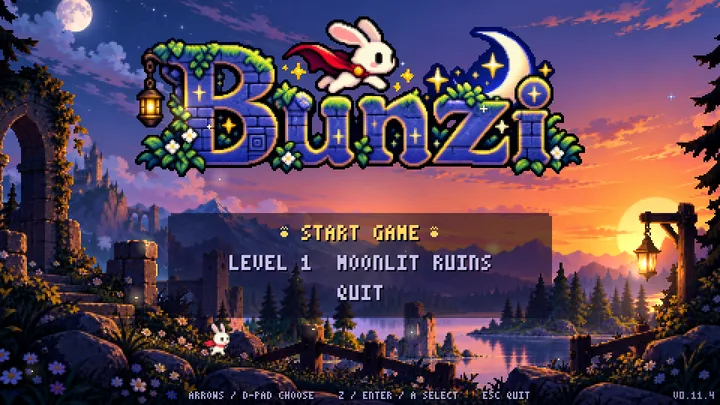
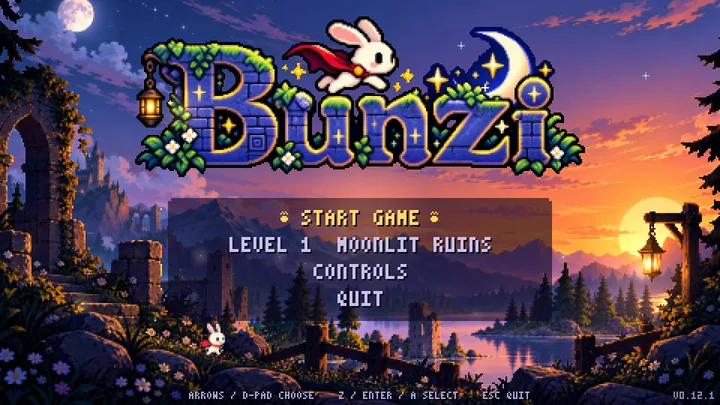
Subbaan website v1.2.4
Removed the bottom Support section and its nav link; the side box now
says "buy me a coffee".

diff --git a/index.html b/index.html
@@ -5,7 +5,7 @@
   <meta name="viewport" content="width=device-width, initial-scale=1">
   <meta name="theme-color" content="#1d2021">
   <title>Subbaan · Software, games & little experiments</title>
-  <meta name="description" content="Free Linux software by Subbaan: terminal apps, little tools and games, with the source on GitHub. Optional gifts on Ko-fi.">
+  <meta name="description" content="Free Linux software by Subbaan: terminal apps, little tools and games, with the source on GitHub. Buy me a coffee on Ko-fi.">
   <link rel="canonical" href="https://subbaan.github.io/">
   <meta property="og:type" content="website">
   <meta property="og:site_name" content="Subbaan">
@@ -19,7 +19,7 @@
   <link rel="icon" type="image/png" href="assets/brand/favicon.png">
   <link rel="apple-touch-icon" href="assets/brand/apple-touch-icon.png">
   <style>
-    /* Subbaan website v1.2.3 · Gruvbox Dark */
+    /* Subbaan website v1.2.4 · Gruvbox Dark */
     :root {
       color-scheme: dark;
       --bg: #1d2021; --panel: #282828; --panel2: #32302f; --raise: #3c3836;
@@ -147,7 +147,6 @@
     .side-box h3 { margin: 0 0 9px; font-size: 16px; }
     .side-box p { font-size: 13px; color: var(--muted); margin: 0 0 13px; }
     .side-box .button { width: 100%; }
-    .side-box .note { font-size: 11.5px; color: var(--dim); margin: 11px 0 0; }
     .release-list { list-style: none; margin: 0; padding: 0; }
     .release-list li { border-top: 1px solid var(--line-soft); }
     .release-list li:first-child { border-top: 0; }
@@ -158,10 +157,6 @@
     .side-box .tags { margin-top: 4px; }
 
     /* Support strip */
-    .support { margin-top: 28px; display: flex; gap: 14px 24px; align-items: center; justify-content: space-between; padding: 16px 20px; }
-    .support h2 { margin: 0 0 4px; font-size: 15px; letter-spacing: -.2px; }
-    .support p { color: var(--muted); font-size: 13px; margin: 0; max-width: 820px; }
-    .support .button { flex: none; }
 
     /* Footer */
     .site-footer { border-top: 1px solid var(--line-soft); color: var(--dim); padding: 23px 0 30px; font-size: 12px; margin-top: 10px; }
@@ -217,7 +212,6 @@
       .feature { grid-template-columns: 1fr; }
       .feature-art { order: -1; margin: 0; border-radius: 0; border: 0; border-bottom: 1px solid var(--line); }
       .side-column { grid-template-columns: 1fr 1fr; }
-      .support { flex-direction: column; align-items: flex-start; }
       .hero { grid-template-columns: 1fr; }
     }
     @media (max-width: 760px) {
@@ -260,7 +254,6 @@
       <a href="#projects">Projects</a>
       <a href="#workshop">Workshop</a>
       <a href="#about">About</a>
-      <a href="#support">Support</a>
     </nav>
     <div class="header-links">
       <a class="header-btn" href="https://github.com/subbaan" target="_blank" rel="noopener noreferrer">
@@ -334,9 +327,8 @@
     <aside class="side-column">
       <section class="side-box panel">
         <h3>♥ Enjoying something?</h3>
-        <p>Everything here is free. If something I've made has been useful or fun, you can send a small gift on Ko-fi. It's entirely optional.</p>
-        <a class="button primary" href="https://ko-fi.com/subbaan" target="_blank" rel="noopener noreferrer">☕ Send a gift on Ko-fi ↗</a>
-        <p class="note"><a href="#support" style="color:var(--muted);text-decoration:underline">How gifts work</a></p>
+        <p>Everything here is free. If something I've made has been useful or fun, you can buy me a coffee.</p>
+        <a class="button primary" href="https://ko-fi.com/subbaan" target="_blank" rel="noopener noreferrer">☕ Buy me a coffee on Ko-fi ↗</a>
       </section>
       <section class="side-box panel">
         <h3>↗ Latest releases</h3>
@@ -350,18 +342,11 @@
     </aside>
   </div>
 
-  <section class="support panel" id="support" aria-labelledby="support-heading">
-    <div>
-      <h2 id="support-heading">♥ A gift, not a payment</h2>
-      <p>Everything here is free, and most of it is MIT-licensed open source. If something has been useful or fun, you're welcome to send a gift on Ko-fi. It doesn't buy or unlock anything, and not sending one is completely fine. Bug reports and ideas on GitHub are just as welcome.</p>
-    </div>
-    <a class="button ghost" href="https://ko-fi.com/subbaan" target="_blank" rel="noopener noreferrer">☕ Ko-fi ↗</a>
-  </section>
 </main>
 
 <footer class="site-footer">
   <div class="wrap footer-inner">
-    <span>© <span id="year">2026</span> Subbaan · Website v1.2.3<span id="built"></span><span id="visits"></span></span>
+    <span>© <span id="year">2026</span> Subbaan · Website v1.2.4<span id="built"></span><span id="visits"></span></span>
     <span><a href="#top">Top ↑</a><a href="https://github.com/subbaan" target="_blank" rel="noopener noreferrer">GitHub</a><a href="https://ko-fi.com/subbaan" target="_blank" rel="noopener noreferrer">Ko-fi</a></span>
   </div>
 </footer>
@@ -391,7 +376,7 @@
 
 <script src="assets/releases.js"></script>
 <script>
-// Subbaan website v1.2.3
+// Subbaan website v1.2.4
 //
 // PROJECTS is the hand-written part: words, screenshots, build steps.
 // Versions, dates, licences and download links come from assets/releases.js,

diff --git a/assets/releases.js b/assets/releases.js
@@ -1,4 +1,4 @@
-// Generated by build.sh 1.1.0 on 2026-10-17. Do not edit by hand; run ./build.sh --releases
+// Generated by build.sh 1.2.0 on 2026-10-18. Do not edit by hand; run ./build.sh --releases
 window.RELEASES = {
   "1cheri": {
     "download": {
@@ -32,18 +32,18 @@ window.RELEASES = {
   },
   "bunzi": {
     "download": {
-      "name": "bunzi-0.11.4-linux-x86_64.tar.gz",
-      "size": 15554582,
-      "url": "https://github.com/subbaan/bunzi/releases/download/v0.11.4/bunzi-0.11.4-linux-x86_64.tar.gz"
+      "name": "bunzi-0.12.1-linux-x86_64.tar.gz",
+      "size": 15607024,
+      "url": "https://github.com/subbaan/bunzi/releases/download/v0.12.1/bunzi-0.12.1-linux-x86_64.tar.gz"
     },
     "language": "C",
     "license": "MIT",
-    "releaseUrl": "https://github.com/subbaan/bunzi/releases/tag/v0.11.4",
-    "released": "2026-10-17",
+    "releaseUrl": "https://github.com/subbaan/bunzi/releases/tag/v0.12.1",
+    "released": "2026-10-18",
     "repo": "https://github.com/subbaan/bunzi",
     "stars": 0,
-    "updated": "2026-10-17",
-    "version": "v0.11.4"
+    "updated": "2026-10-18",
+    "version": "v0.12.1"
   },
   "litreader": {
     "download": {
@@ -129,4 +129,4 @@ window.RELEASES = {
   }
 }
 ;
-window.RELEASES_BUILT = "2026-10-17";
+window.RELEASES_BUILT = "2026-10-18";

diff --git a/README.md b/README.md
@@ -1,8 +1,8 @@
 # Subbaan website
 
-Version: 1.2.3
+Version: 1.2.4
 
-The source for **https://subbaan.github.io**, a static portfolio of Subbaan's software, with an optional Ko-fi gift link.
+The source for **https://subbaan.github.io**, a static portfolio of Subbaan's software, with a Ko-fi link.
 It has no framework, CDN, cookies or backend. On the live site only, a small footer counter uses [GoatCounter](https://www.goatcounter.com) (`subbaan.goatcounter.com`), which sets no cookies and stores nothing in the browser. The page is `index.html`; `build.sh` refreshes the generated assets.
 
 ## Layout
@@ -48,6 +48,7 @@ Project popups have shareable links, e.g. `https://subbaan.github.io/#/radiowave
 
 ## Changelog
 
+- **1.2.4**: Removed the bottom Support section and its nav link. The side box now says "buy me a coffee".
 - **1.2.3**: The Support section is now a small, quiet strip instead of a big panel.
 - **1.2.2**: Small cookie-free visit counter in the footer (GoatCounter, live site only).
 - **1.2.1**: Bunzi copy mentions its real RGBA rendering, parallax backgrounds and the dissolving-terminal intro.
